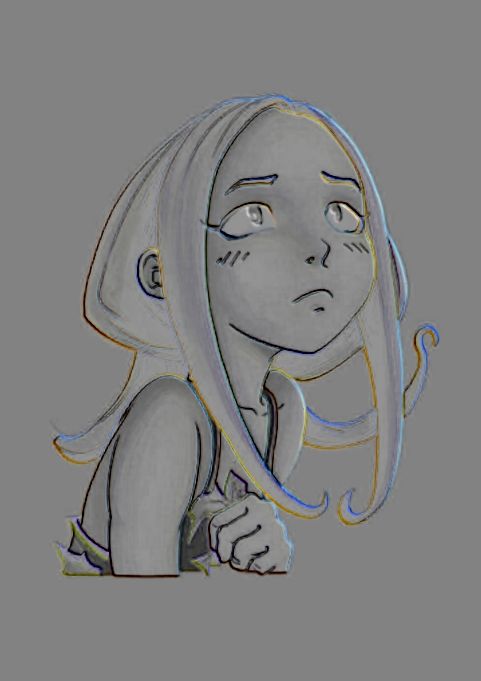
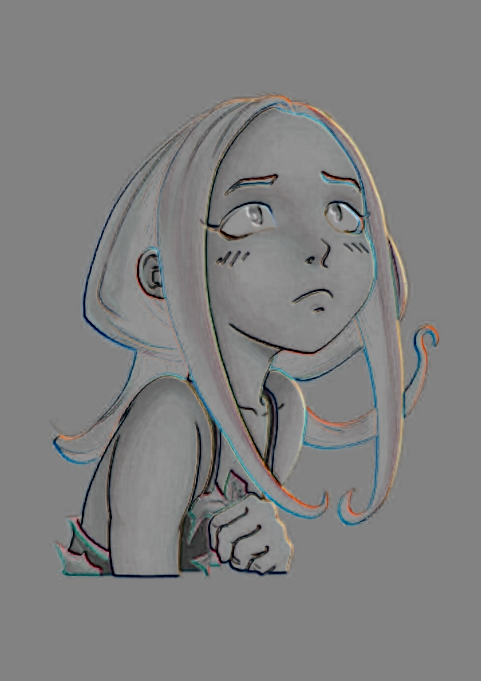
not sure why loading stroke density works but computing and using doesn't work for sobel lighting

diff --git a/sobel_lighting.py b/sobel_lighting.py
@@ -34,12 +34,17 @@ def main():
 
     # find the raw image and stroke density maps
     # raw_image = cv2.imread("./data/padded_sample_input.png", cv2.IMREAD_COLOR)
-    # stroke_density = cv2.imread("./data/stroke_density.png", cv2.IMREAD_GRAYSCALE)
-    raw_image = cv2.imread("./imgs/sample-input.png", cv2.IMREAD_COLOR)
+    stroke_density = cv2.imread("./tmp/stroke_density.png", cv2.IMREAD_GRAYSCALE)
+    raw_image = cv2.imread("./tmp/sample-input.png", cv2.IMREAD_COLOR)
     height, width, _ = raw_image.shape
-    stroke_density = sd.get_stroke_density(raw_image, './tmp/intersection.npz')
-    stroke_density = stroke_density[:, :, 0]
-    stroke_density *= 255
+
+    # stroke_density = sd.get_stroke_density(raw_image, './tmp/intersection.npz')
+    # stroke_density = stroke_density[:, :, 0]
+    # stroke_density *= 255
+    # stroke_density = np.clip(stroke_density, 0, 255).astype(np.uint8)
+
+    # print(stroke_density[300:310, 300:310])
+    # print(stroke_density.dtype)
 
     which_corner = 1
 
